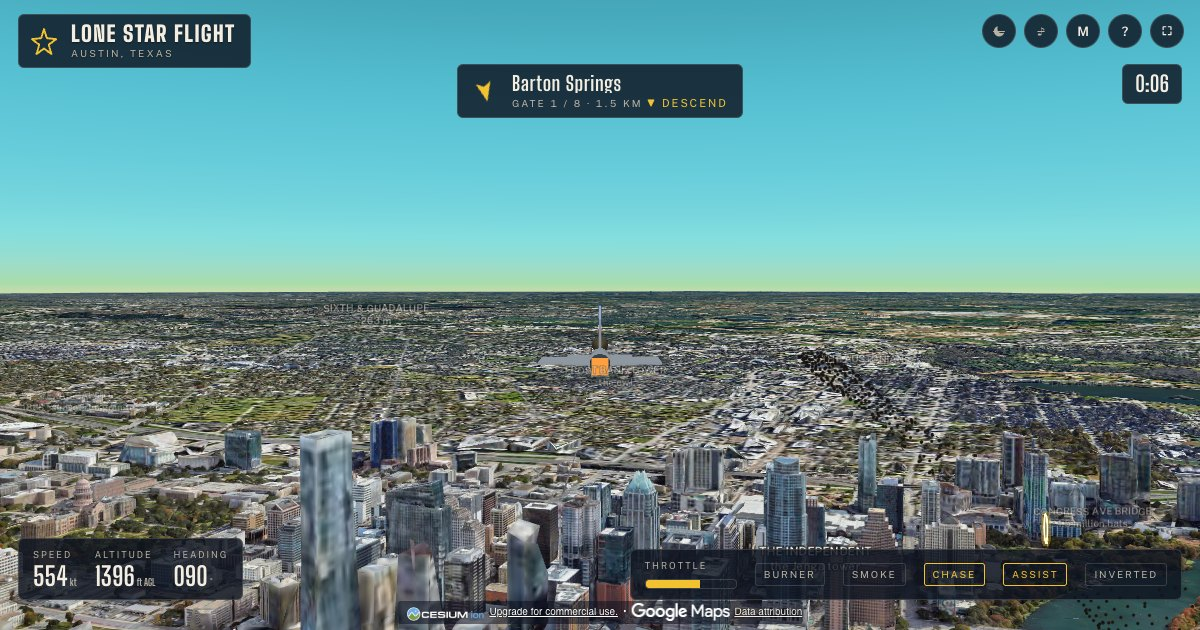
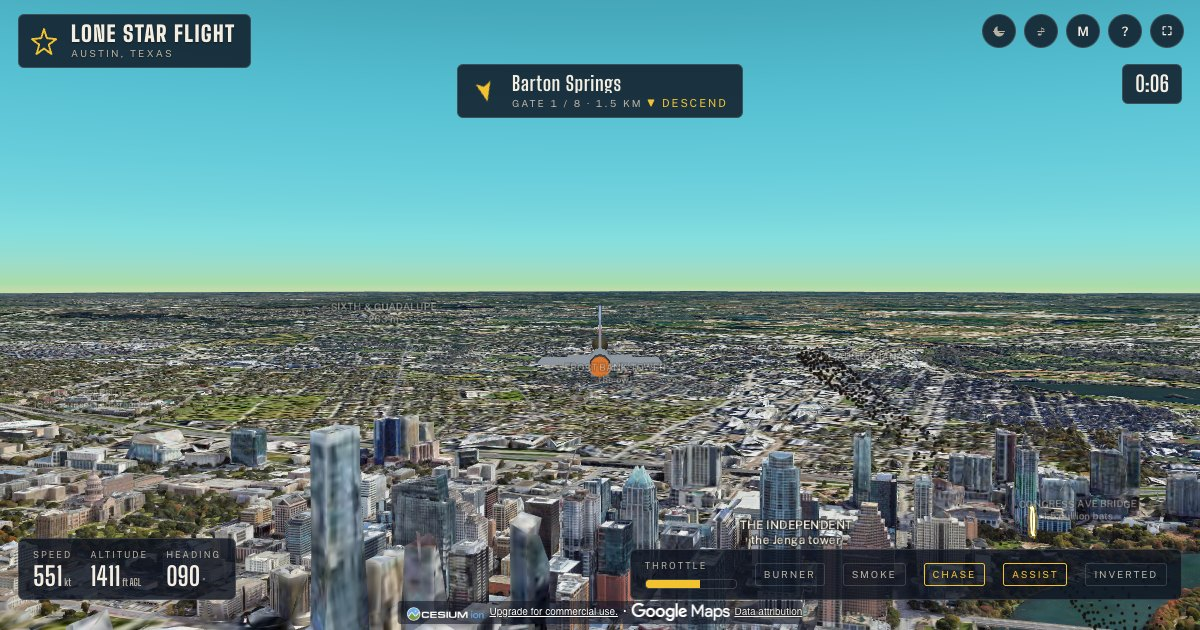
F-16 nozzle glow as a small disc; preview image regenerated

diff --git a/src/index.html b/src/index.html
@@ -489,7 +489,7 @@ part(V(-4.0,0,3.75),rotY(-0.32),boxG(V(0.34,0.3,0.34)),TXWHITE);            // t
 part(V(-5.0,0,3.2),rotY(-0.32),boxG(V(2.4,0.26,0.3)),TXWHITE);              // white bar
 part(V(-5.1,0,2.88),rotY(-0.32),boxG(V(2.3,0.26,0.3)),TXRED);               // red bar
 part(V(-7.3,0,-0.05),rotY(Math.PI/2),cylG(1.8,0.85,0.75),DK);               // nozzle
-part(V(-8.25,0,-0.05),null,boxG(V(0.2,1.3,1.3)),FLAME);                     // nozzle glow
+part(V(-8.25,0,-0.05),rotY(Math.PI/2),cylG(0.2,0.78,0.78),C.Color.fromCssColorString('#d9752e'));   // nozzle glow, a disc
 part(V(3.4,0,0.85),null,new C.EllipsoidGeometry({radii:V(2.6,0.72,0.72),vertexFormat:VF,stackPartitions:10,slicePartitions:14}),CANOPY);   // bubble canopy
 part(V(-1.0,0,-0.75),null,boxG(V(7,1.4,0.5)),G2);                           // belly
 for(const s of [-1,1])part(V(-1.6,5.1*s,-0.1),null,boxG(V(2.2,0.25,0.25)),DK);   // wingtip rails
